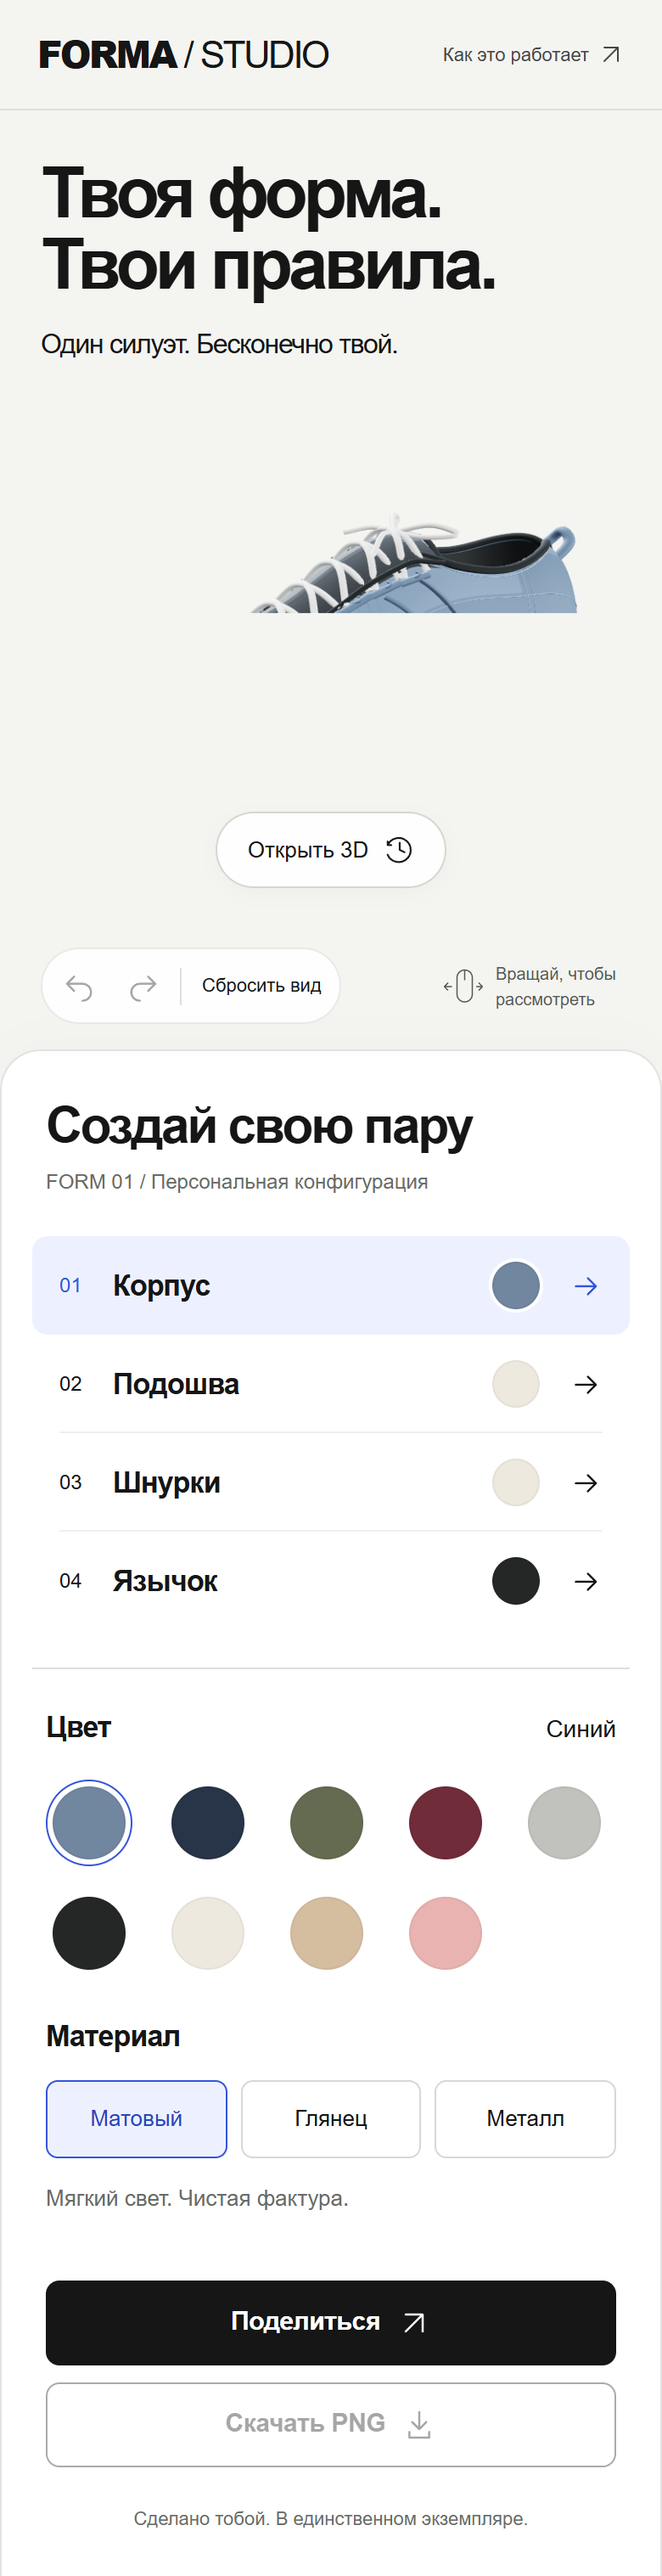
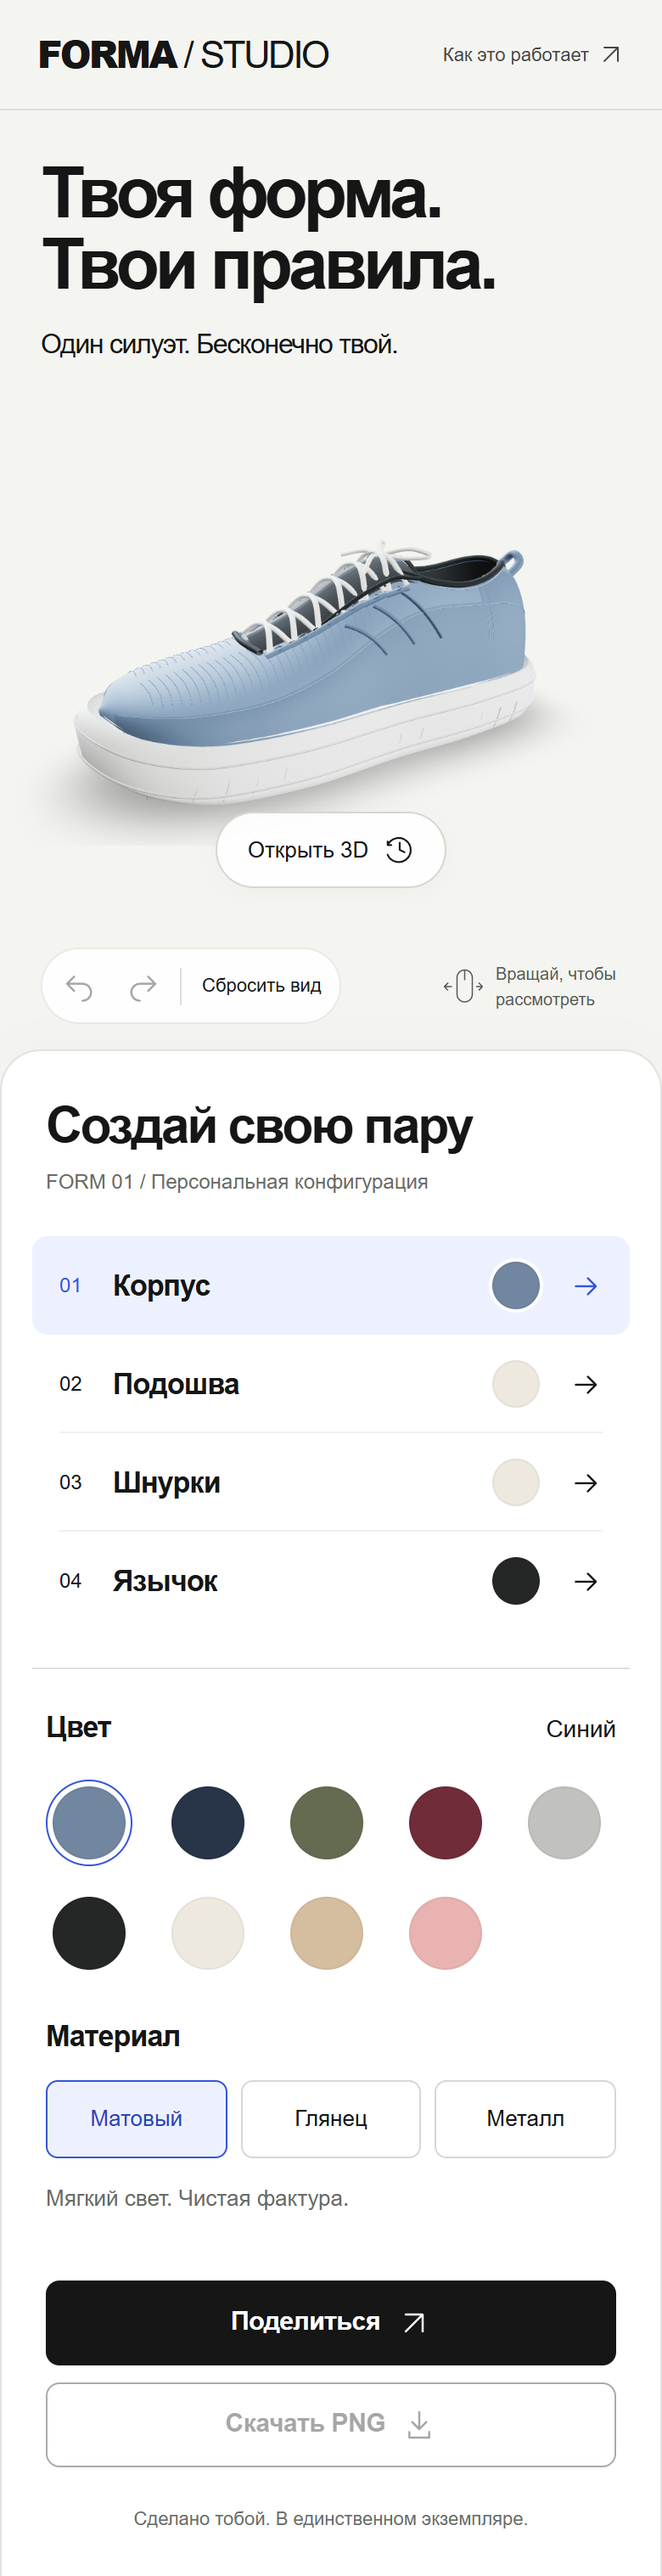
fix: keep mobile preview and palette within viewport

Changed region(s): [[0.0923, 0.1859, 0.8615, 0.3408]]

diff --git a/src/styles.css b/src/styles.css
@@ -563,9 +563,11 @@ button {
   place-items: center;
 }
 .scene-activation img {
+  position: absolute;
+  inset: 0;
   width: 100%;
   height: 100%;
-  object-fit: cover;
+  object-fit: contain;
 }
 .scene-activation > span {
   position: absolute;
@@ -809,6 +811,16 @@ button {
   .primary-button,
   .secondary-button {
     min-height: 50px;
+  }
+}
+@media (max-width: 380px) {
+  .swatches {
+    column-gap: 8px;
+  }
+  .swatch {
+    width: min(51px, 100%);
+    height: auto;
+    aspect-ratio: 1;
   }
 }
 @media (prefers-reduced-motion: reduce) {

diff --git a/docs/design.md b/docs/design.md
@@ -10,7 +10,7 @@ FORMA / STUDIO — открытая светлая сцена и белый ин
 
 ## Сверка макета и реализации
 
-Концепт и финальные снимки просмотрены через `view_image`. Сначала использован встроенный Edge; после повторяющихся таймаутов управления — отдельный Edge через Playwright. Проверены desktop viewport **1505×1045** и mobile **390×844** (DPR 2). Полные снимки включают прокрутку страницы; это не изменение размера viewport.
+Концепт и финальные снимки просмотрены через `view_image`. Сначала использован встроенный Edge; после повторяющихся таймаутов управления — отдельный Edge через Playwright. Проверены desktop viewport **1505×1045** и mobile **390×844** (DPR 2). Полные снимки включают прокрутку страницы; это не изменение размера viewport. Мобильное изображение снято после `img.decode()`, чтобы исключить частично декодированный PNG. Дополнительно проверены ширины 320, 360, 768 и 1024 px; на 320 px исправлено переполнение палитры адаптивным размером swatches. Изображение превью позиционируется внутри фиксированной области с `object-fit: contain`: исходное соотношение сторон больше не растягивает grid-строку на планшете и не обрезает носок на узком экране.
 
 | Область         | Сравнение и результат                                                                                                                                                   |
 | --------------- | ----------------------------------------------------------------------------------------------------------------------------------------------------------------------- |
